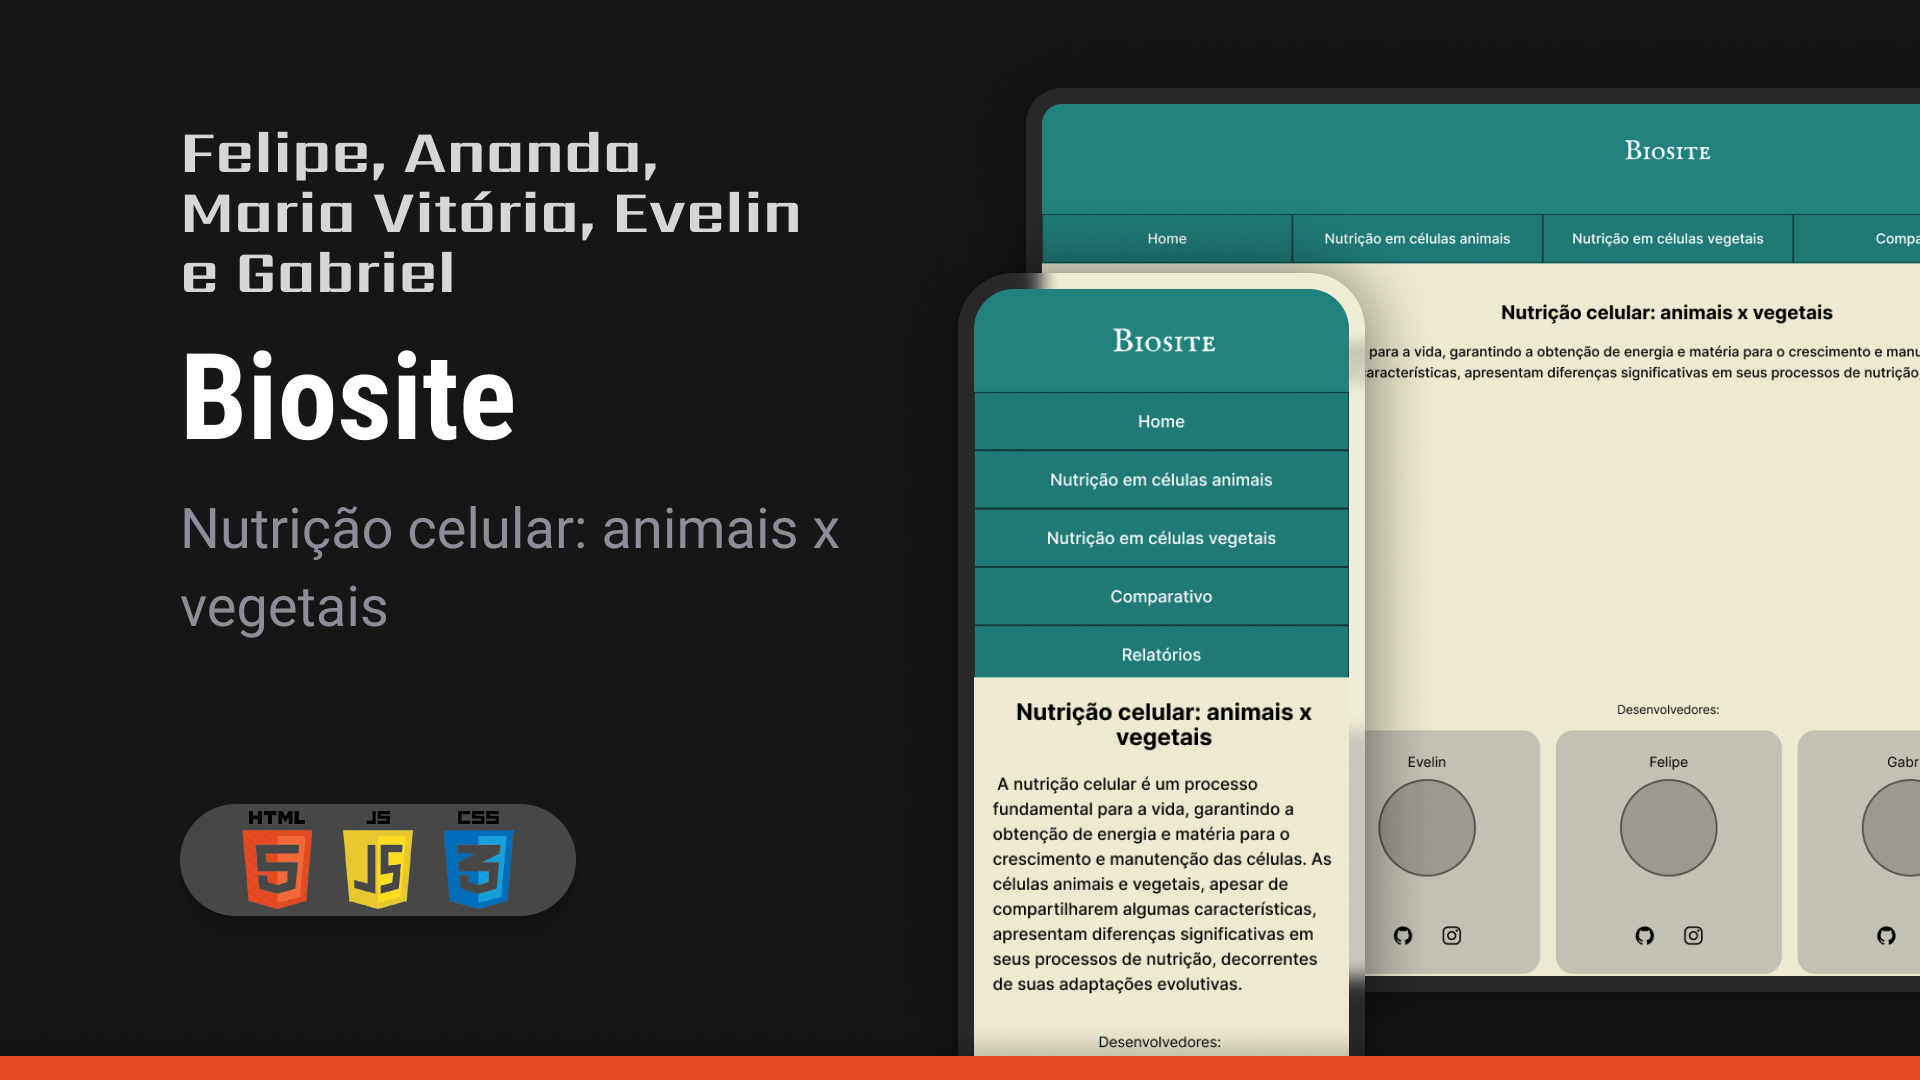
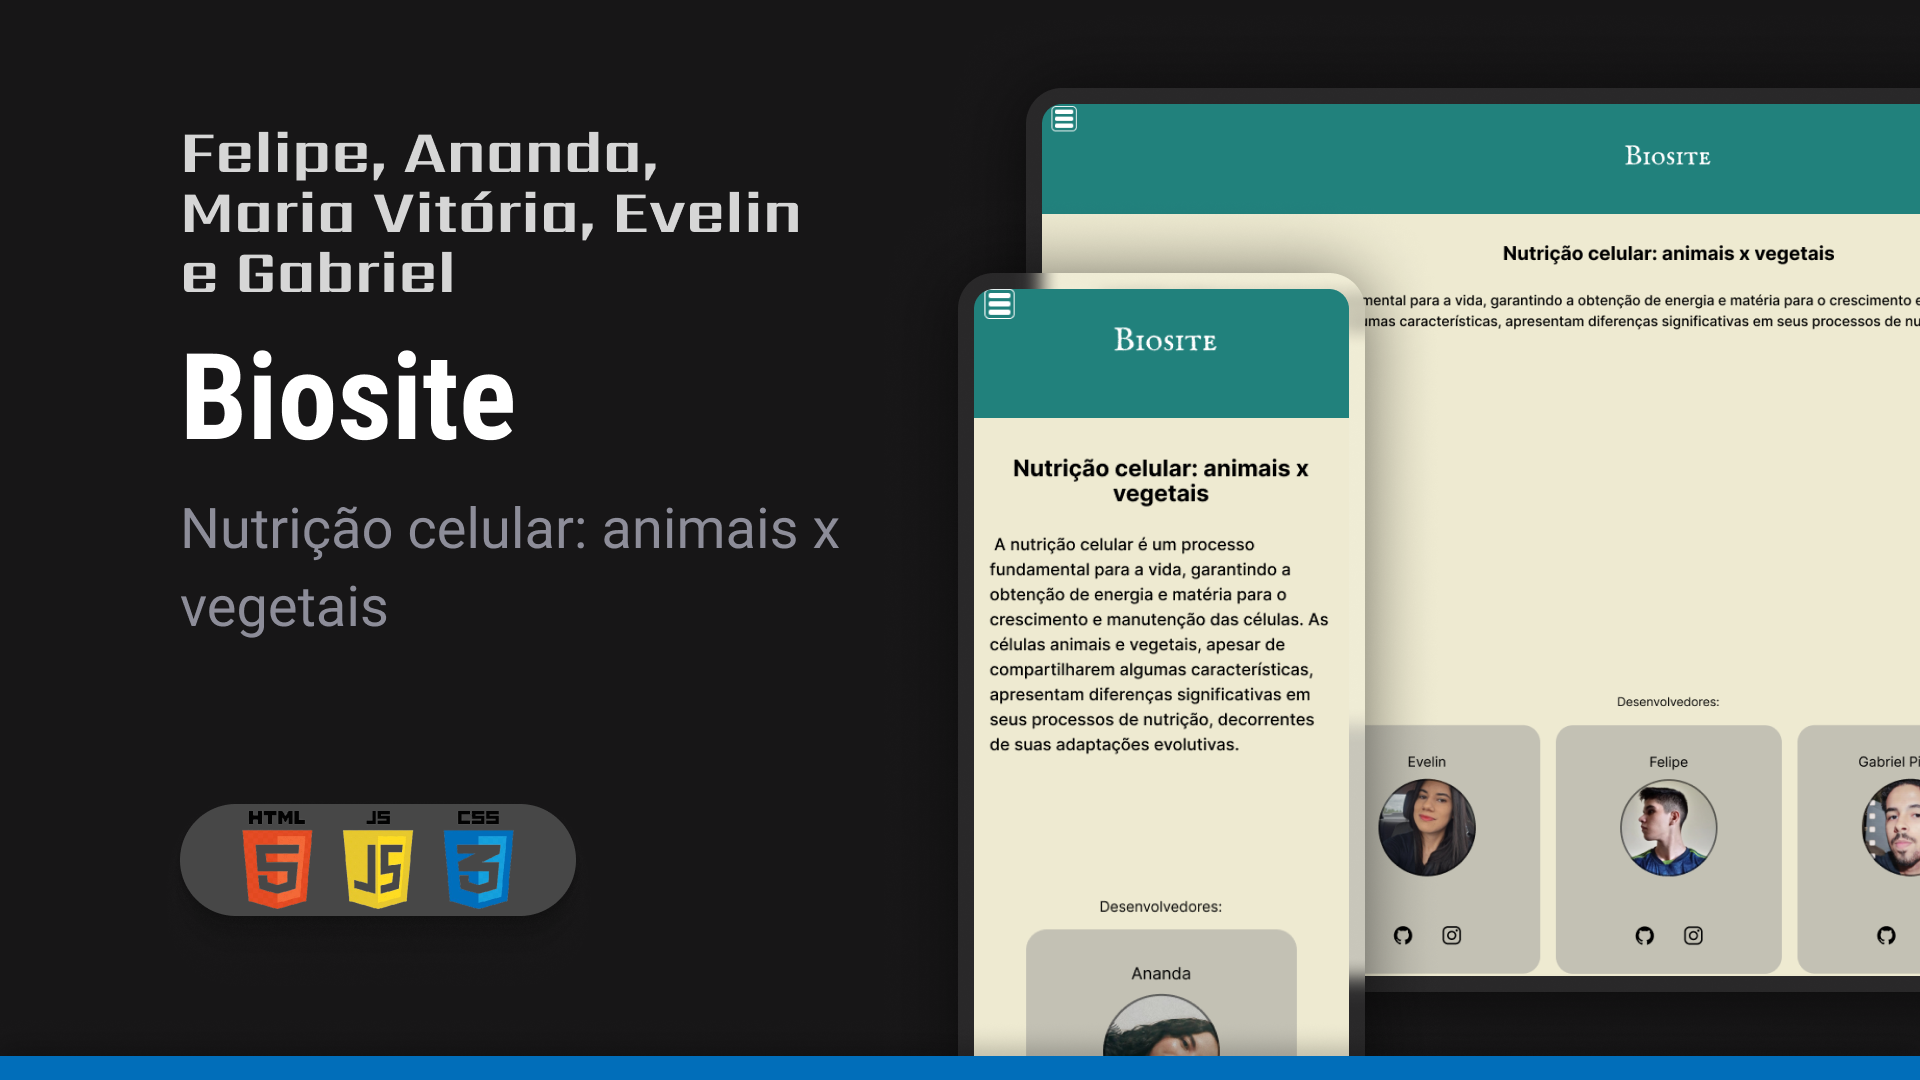
Ajuste no menu

diff --git a/css/style.css b/css/style.css
@@ -22,29 +22,31 @@ header ul li a {
   list-style: none;
   display: flex;
   flex-direction: column;
-  padding: 0px 0px;
+}
+#menu li{
+  width: 100%;
 }
 #menu li a {
   display: flex;
   align-items: center;
   justify-content: center;
+  width: 100%;
   padding: 16px 24px;
-  background: rgba(0, 0, 0, 0);
-  border: 1.5px solid rgba(255, 255, 255, 0);
+  background: rgba(0, 0, 0, 0.05);
+  border: 1.5px solid rgba(0, 0, 0, 0.1);
   backdrop-filter: blur(4px);
   -webkit-backdrop-filter: blur(4px);
   text-decoration: none;
   font-weight: 500;
   transition: background 0.2s;
-  margin: 0px;
 }
 body * {
   font-family: "Inter", sans-serif;
   color: black;
 }
 #menu li a:hover {
-  background: rgba(255, 255, 255, 0.1);
-  border: 1.5px solid white;
+  background: rgba(0, 0, 0, 0.2);
+  border: 1.5px solid rgb(0, 0, 0, 0.6);
 }
 body {
   /*background: url(../IMAGENS/teste.jpg) no-repeat top center/cover;*/
@@ -59,10 +61,10 @@ body #content {
   text-align: justify;
   margin: 20px;
 }
-body #content ul{
+body #content ul {
   margin: 20px;
 }
-body #content ol{
+body #content ol {
   margin: 20px;
 }
 #centro {
